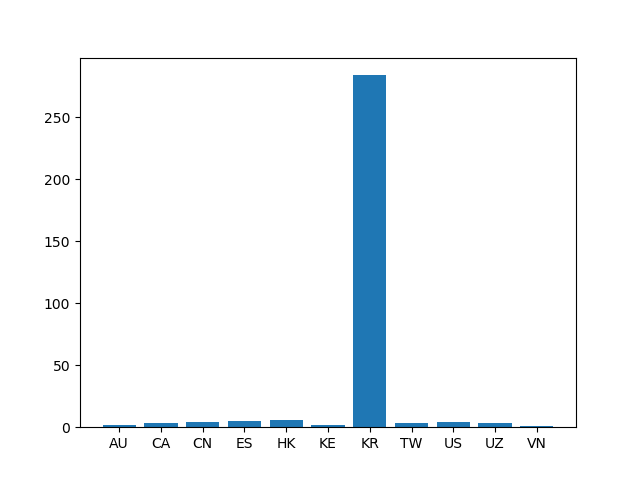
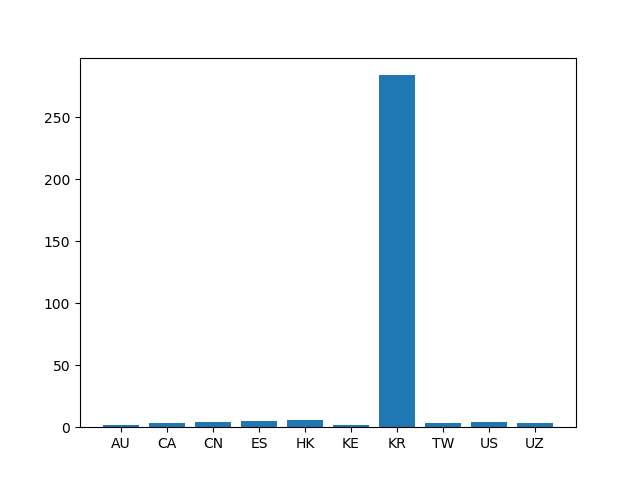
attempt 2

diff --git a/src/visualize.py b/src/visualize.py
@@ -27,13 +27,13 @@ if args.percent:
 
 # print the count values
 items = sorted(counts[args.key].items(), key=lambda item: (item[1],item[0]), reverse=True)
-
+#print(items)
 keys = []
 values = []
 for k,v in items:
     keys += [k]
     values += [int(v)]
-fig = plt.bar(keys[0:11], values[0:11])
+fig = plt.bar(keys[0:10], values[0:10])
 # fig, ax = plt.subplots(nrows=1, ncols=1)
 # ax.plot(keys[0:11], values[0:11])
 plt.savefig(f"./{args.input_path}_{args.key}_figure.png")
